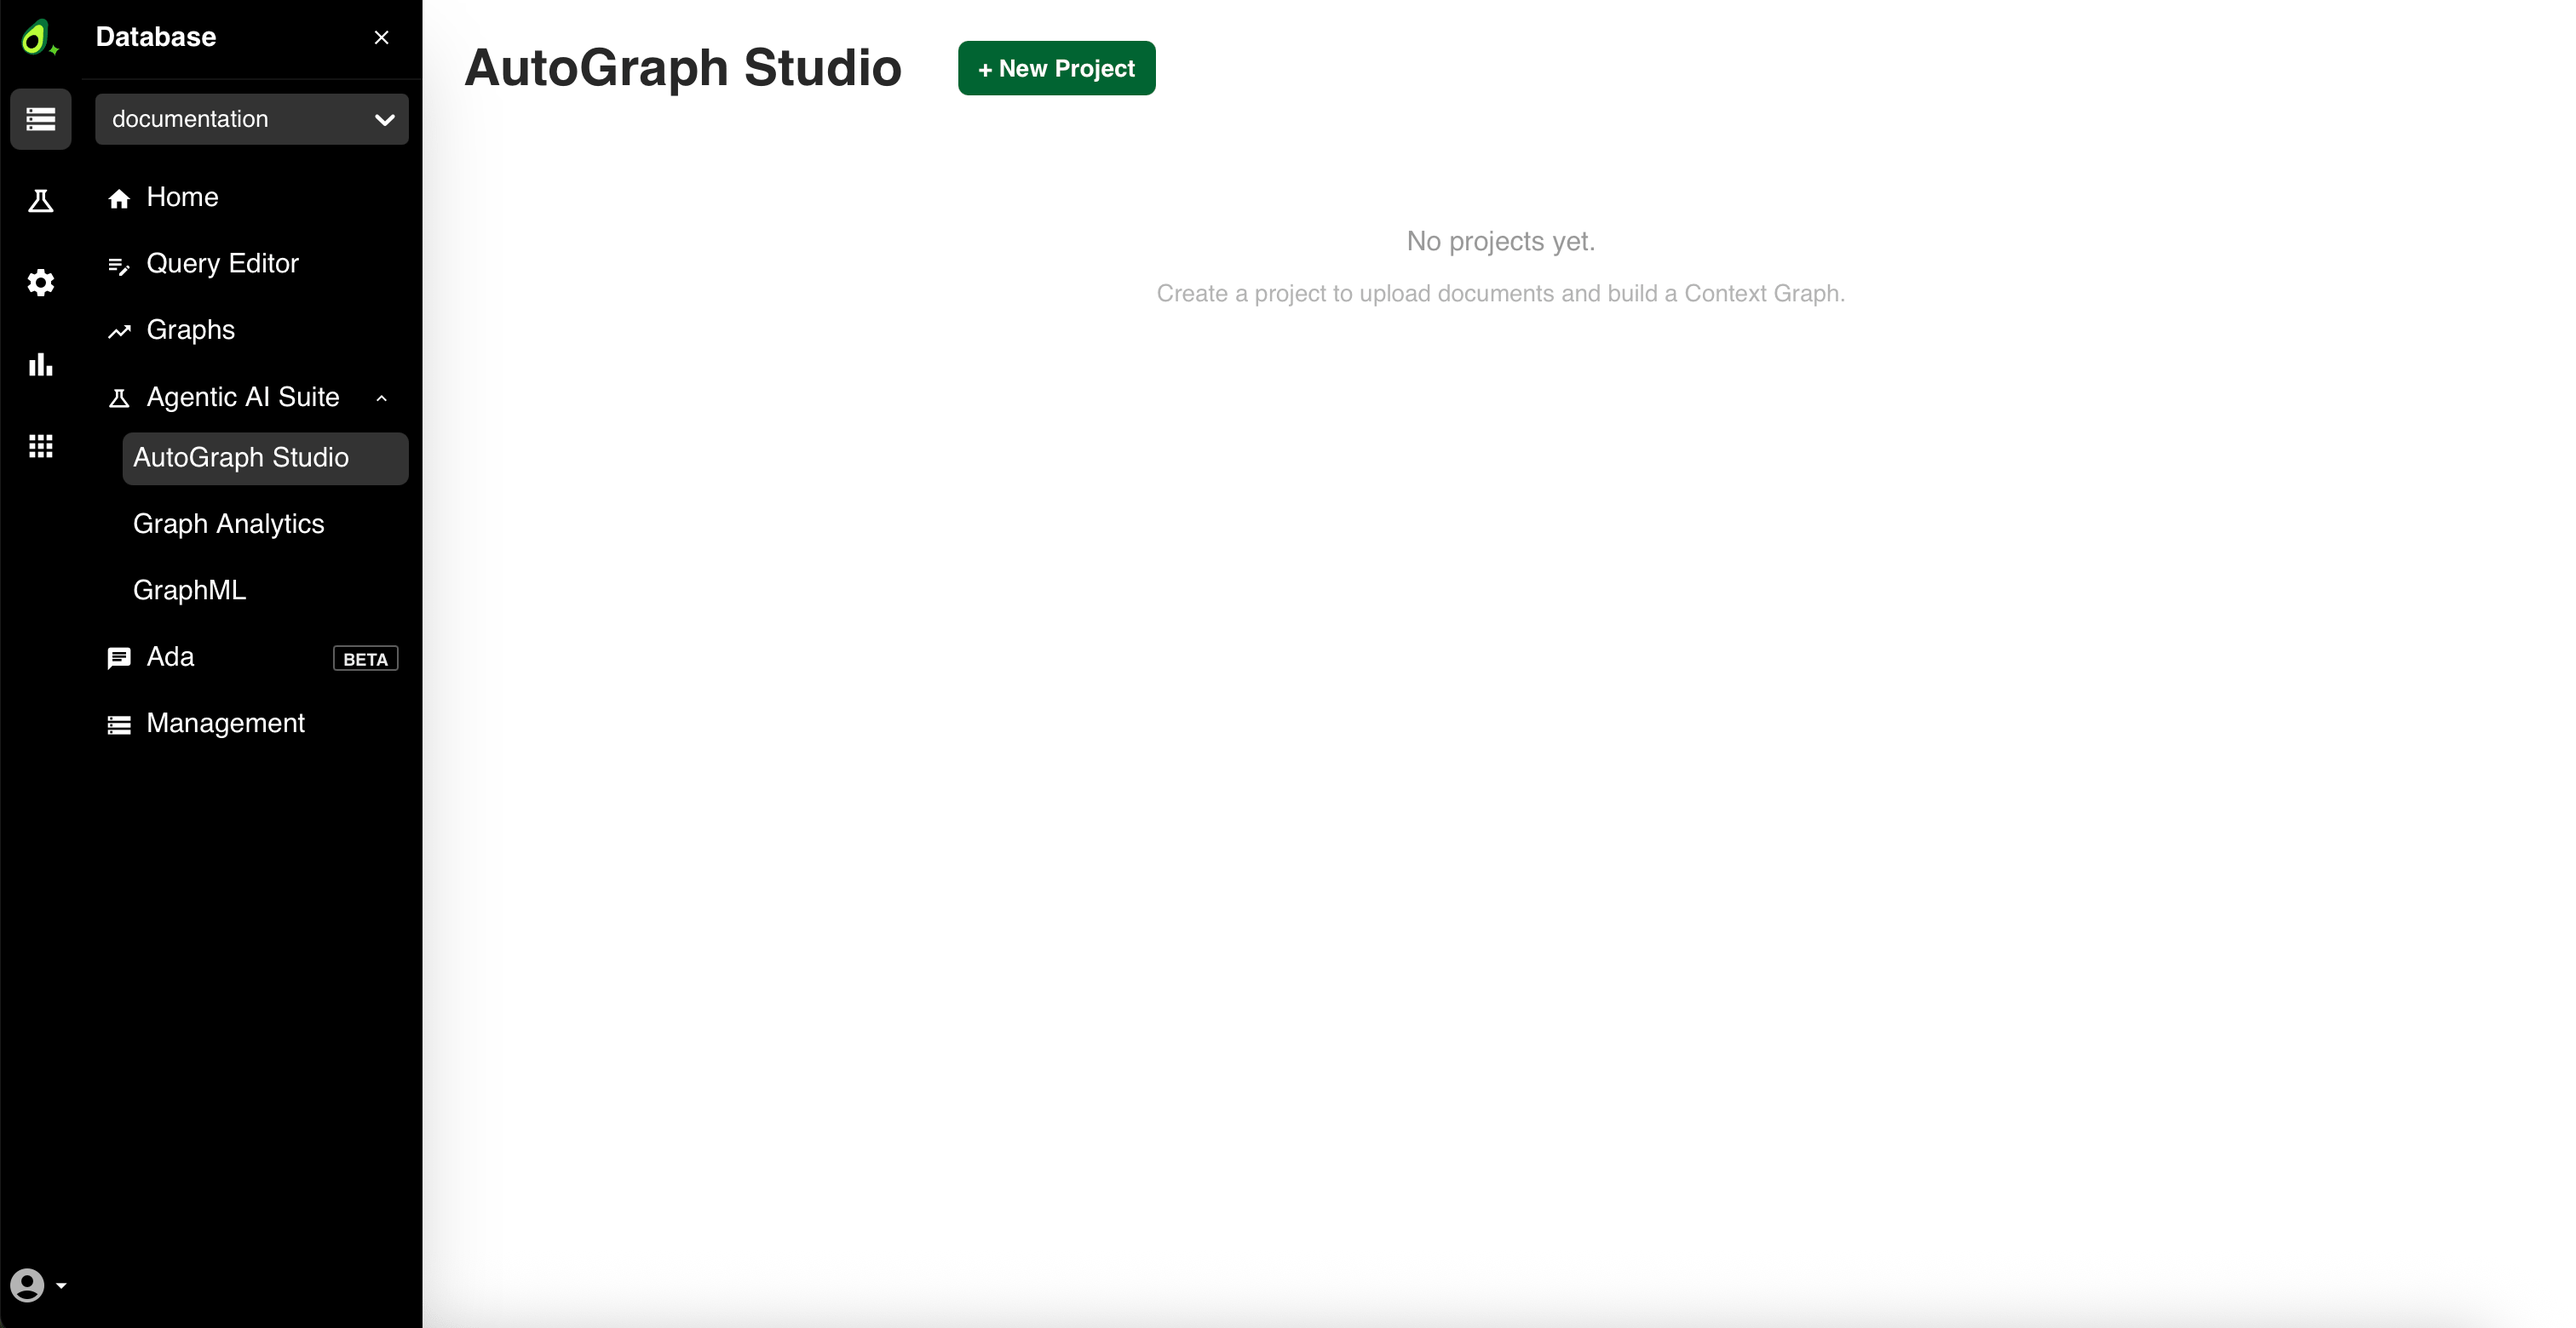
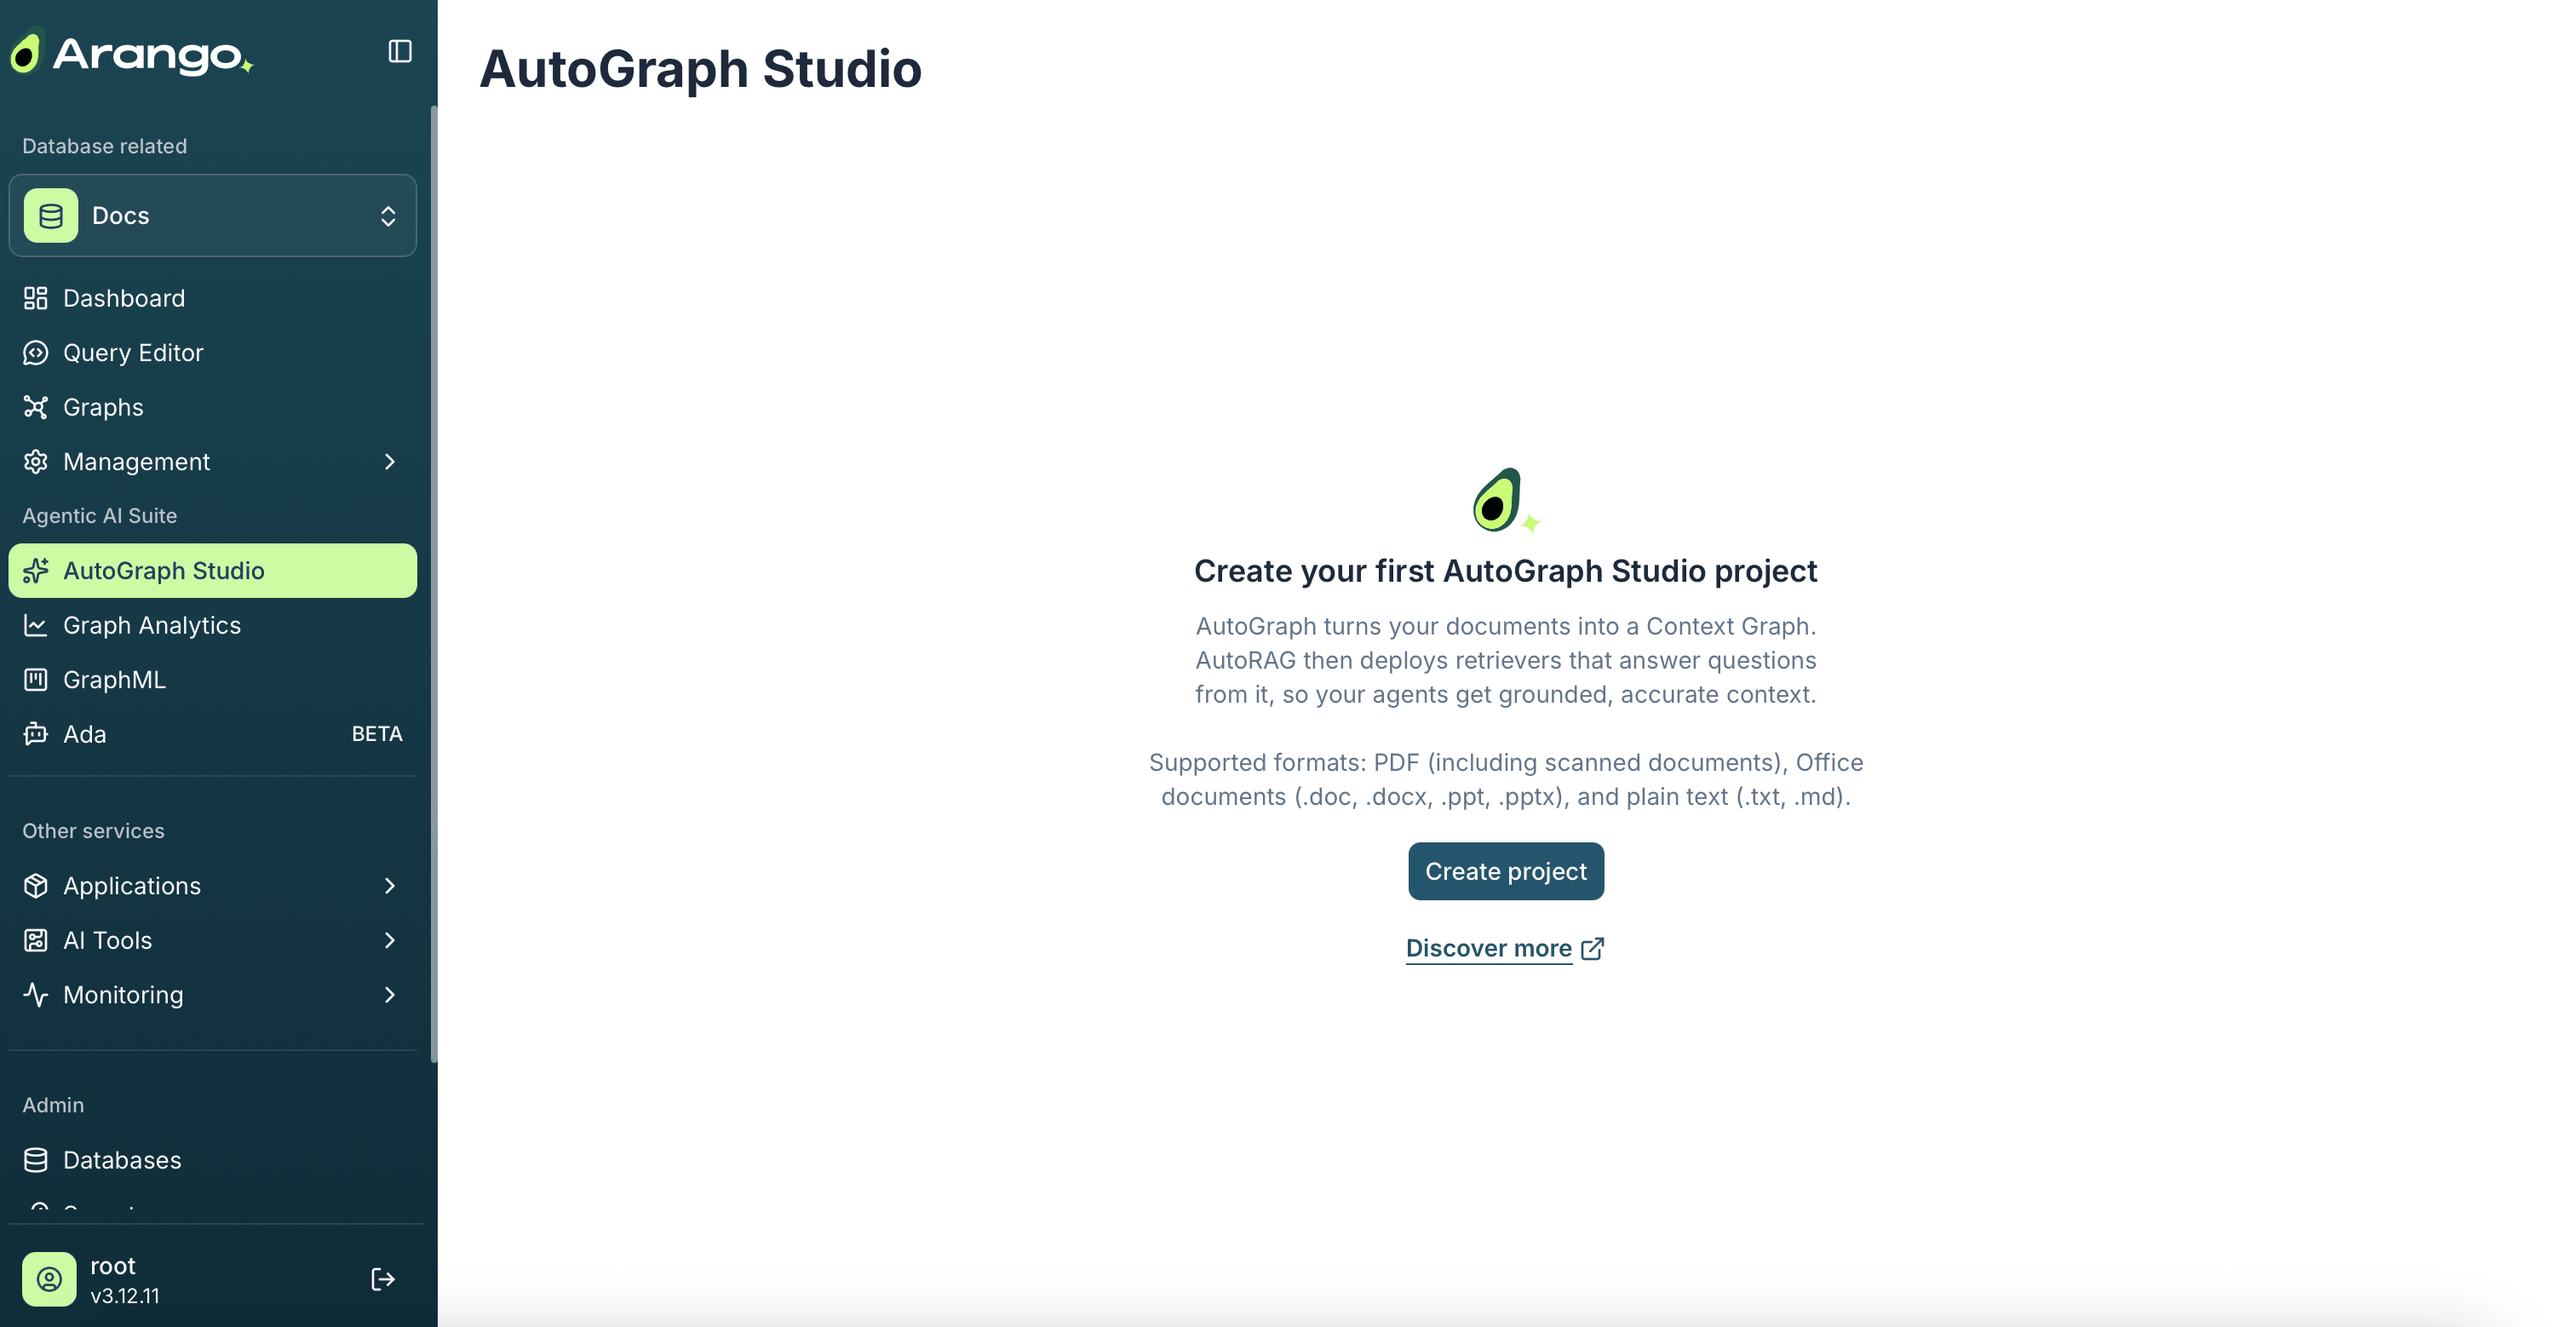
AIS-2328: Update the AutoGraph Studio empty state screenshot

diff --git a/site/content/agentic-ai-suite/autograph/web-interface.md b/site/content/agentic-ai-suite/autograph/web-interface.md
@@ -42,7 +42,7 @@ in Arango Contextual Data Platform 4.1.0. See
      short description with the supported file types, a **Create project**
      button, and a **Discover more** link. Click **Create project**.
 
-     ![The AutoGraph Studio view of a database without projects](../../images/autograph-ui-studio-empty.png)
+     ![The AutoGraph Studio entry point of a database without projects](../../images/autograph-ui-studio-empty.png)
 
    - If the database has projects, they are listed in a table with their
      **Name**, **Description**, and **Actions**. Click a column header to sort,
